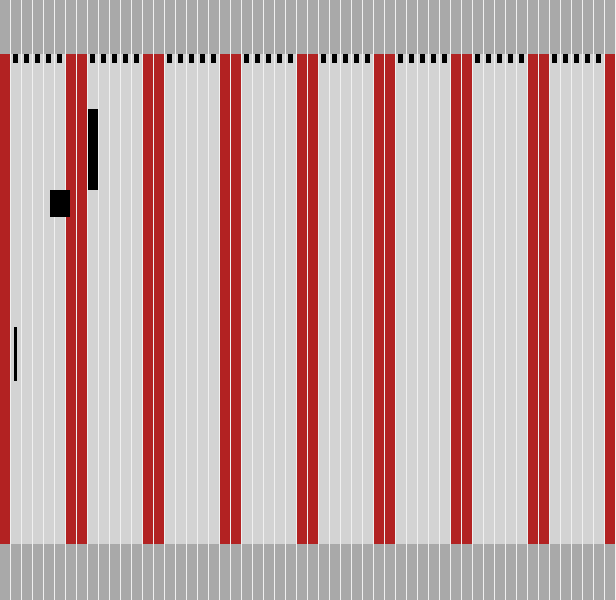
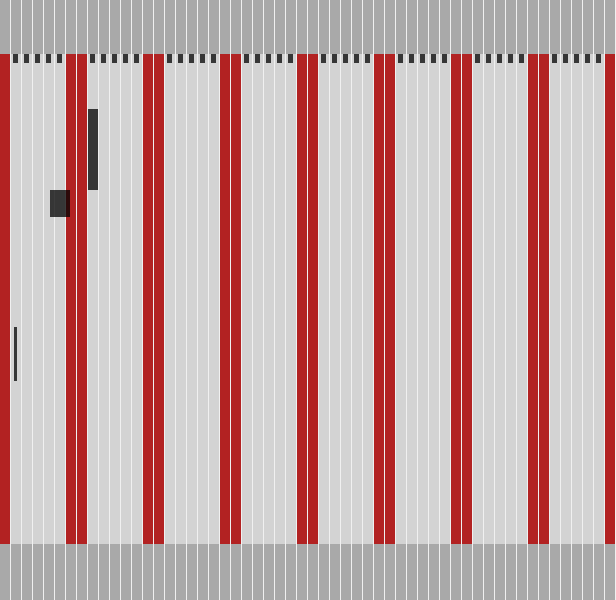
CheckIns ready for talk

diff --git a/DashBoard/CodeCheckInsTest.cs b/DashBoard/CodeCheckInsTest.cs
@@ -1,6 +1,5 @@
 using System;
 using System.Collections.Generic;
-using System.Diagnostics;
 using System.IO;
 using System.Linq;
 using ApprovalTests.Reporters;
@@ -13,6 +12,8 @@ namespace DashBoard
 	[UseReporter(typeof(AllFailingTestsClipboardReporter))]
 	public class CodeCheckInsTest
 	{
+		private Random random = new Random(2000);
+
 		[TestMethod]
 		public void TestCheckins()
 		{
@@ -26,6 +27,38 @@ namespace DashBoard
 		}
 
 		[TestMethod]
+		public void GenerateOther()
+		{
+			var checkins = Enumerable.Range(0, 8*4*7)
+			                         .SelectMany(c => GenerateForDay(c));
+			WinFormsApprovals.Verify(new CheckInChart(checkins));
+		}
+		private IEnumerable<CheckIn> GenerateForDay(int day)
+		{
+			var number = random.Next(Meeting.IsWeekend(day) ? Meeting.IsEveryOtherWeekend(day)?0:4: 3);
+			for (int i = 0; i < number; i++)
+			{
+			  Func<int> daytime = () => random.Next(9, 17); 
+			  Func<int> evening = () => random.Next(17, 20);
+			  Func<int> night = () => random.Next(20, 24);
+				Func<int> time = daytime;
+				int dice = random.Next(100);
+				if ( 90 < dice)
+				{
+					time = night;
+				}
+				else if (75 < dice)
+				{
+					time = evening;
+				}
+
+				var hour = time();
+
+				yield return new CheckIn(day, hour , random.Next(60), random.Next(10,1000));
+			}
+		}
+
+		[TestMethod]
 		public void GenerateHunter()
 		{
 			var start = new DateTime(2012, 12, 30);
@@ -36,6 +69,8 @@ namespace DashBoard
 
 			WinFormsApprovals.Verify(new CheckInChart(checkins));
 		}
+
+
 
 		public static IEnumerable<string[]> ProcessCsvFile(string csvFile)
 		{
@@ -74,7 +109,12 @@ namespace DashBoard
 		public static bool IsWeekend(int day)
 		{
 			int dayOfWeek = day%7;
-			return (dayOfWeek == 0 || dayOfWeek == 6);
+			return (new []{0,6}.Contains(dayOfWeek));
+		}
+		public static bool IsEveryOtherWeekend(int day)
+		{
+			int dayOfWeek = day%14;
+			return (new []{0,13}.Contains(dayOfWeek));
 		}
 	}
 }

diff --git a/DashBoard/MeetingsChart.cs b/DashBoard/MeetingsChart.cs
@@ -65,11 +65,16 @@ namespace DashBoard
 			{
 				int width = ScaleWidth(meeting.NumberOfPeople);
 				int difference = (barWidth - width)/2;
-				g.FillRectangle(Brushes.Black, startX + difference, ScaleHeight(meeting.minute), width, ScaleHeightLength(meeting.Length));
+				Brush black = GetSemiTransparentBlack();
+				g.FillRectangle(black, startX + difference, ScaleHeight(meeting.minute), width, ScaleHeightLength(meeting.Length));
 			}
 		}
 
-		
+		public static SolidBrush GetSemiTransparentBlack()
+		{
+			return new SolidBrush(Color.FromArgb(190,Color.Black));
+		}
+
 
 		private int GetStartXForDay(int day)
 		{

diff --git a/DashBoard/CheckInChart.cs b/DashBoard/CheckInChart.cs
@@ -82,7 +82,7 @@ namespace DashBoard
 
 		private void DrawCircle(Graphics g, int x, int y, int radius)
 		{
-			g.FillEllipse(Brushes.Black,x-radius, y-radius,radius*2, radius*2);
+			g.FillEllipse(MeetingsChart.GetSemiTransparentBlack(),x-radius, y-radius,radius*2, radius*2);
 		}
 
 		private int ScaleHeight(int minute)
